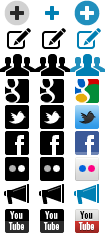
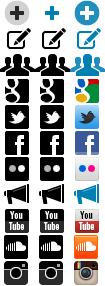
NR-410 : Implement support for Soundcloud in LD
search, drag to timeline, pullish and annotations work

diff --git a/plugins/gui-core/gui-resources/styles/css/custom.css b/plugins/gui-core/gui-resources/styles/css/custom.css
@@ -708,7 +708,28 @@ section.main-section {
 		}
 	.active .big-icon-youtube, .active a:hover .big-icon-youtube { 
 		background-position: -70px -208px;
-		} 
+		}
+
+.big-icon-soundcloud { 
+	background-position: 0 -234px;
+}
+a:hover .big-icon-soundcloud { 
+	background-position: -35px -234px;
+}
+.active .big-icon-soundcloud, .active a:hover .big-icon-soundcloud { 
+	background-position: -70px -234px;
+}
+.big-icon-instagram { 
+	background-position: 0 -260px;
+}
+a:hover .big-icon-instagram { 
+	background-position: -35px -260px;
+}
+.active .big-icon-instagram, .active a:hover .big-icon-instagram { 
+	background-position: -70px -260px;
+}
+
+ 
 		
 /*
 ====================================================
@@ -1552,7 +1573,7 @@ bootstrap.css (line 1929)
     z-index:2;
 }
 
-li.google .config-notif, li.ads .config-notif, li.flickr .config-notif, li.youtube .config-notif  {
+li.google .config-notif, li.ads .config-notif, li.flickr .config-notif, li.youtube .config-notif, li.soundcloud .config-notif  {
     display: none !important; 
 }
 
@@ -1560,5 +1581,12 @@ li.google .config-notif, li.ads .config-notif, li.flickr .config-notif, li.youtu
     visibility: hidden;
 }
 #flickr-image-results > li.draggable:hover .drag-bar {
+    visibility: visible;
+}
+
+#soundcloud-sound-results > li .drag-bar {
+    visibility: hidden;
+}
+#soundcloud-sound-results > li.draggable:hover .drag-bar {
     visibility: visible;
 }
